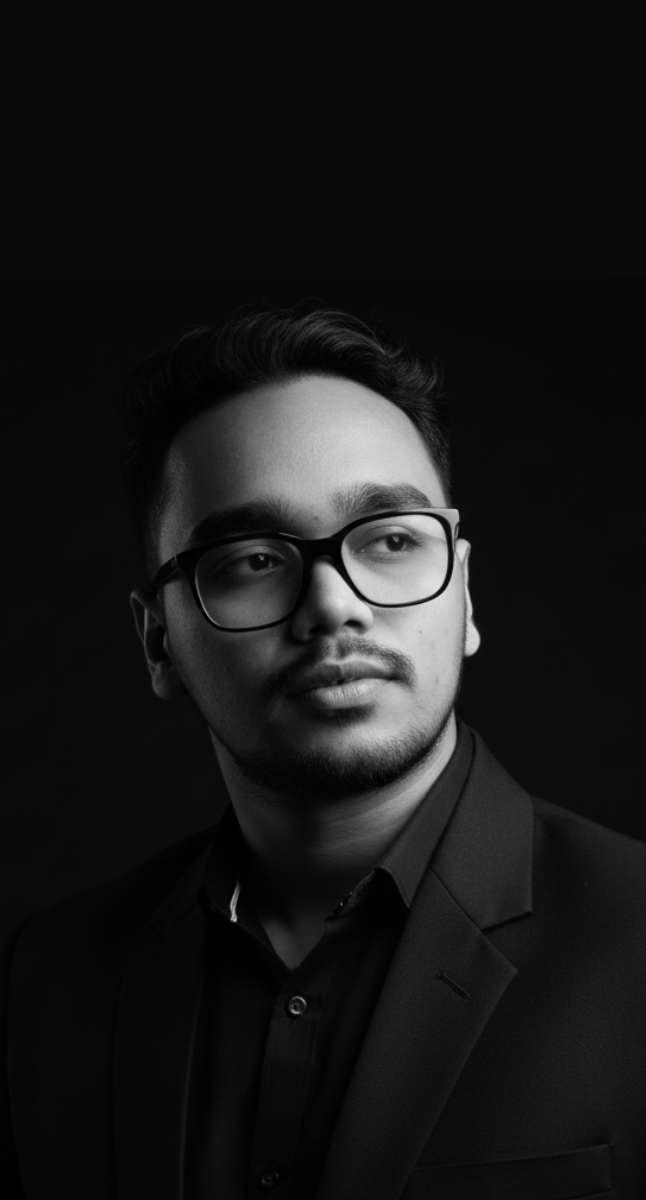
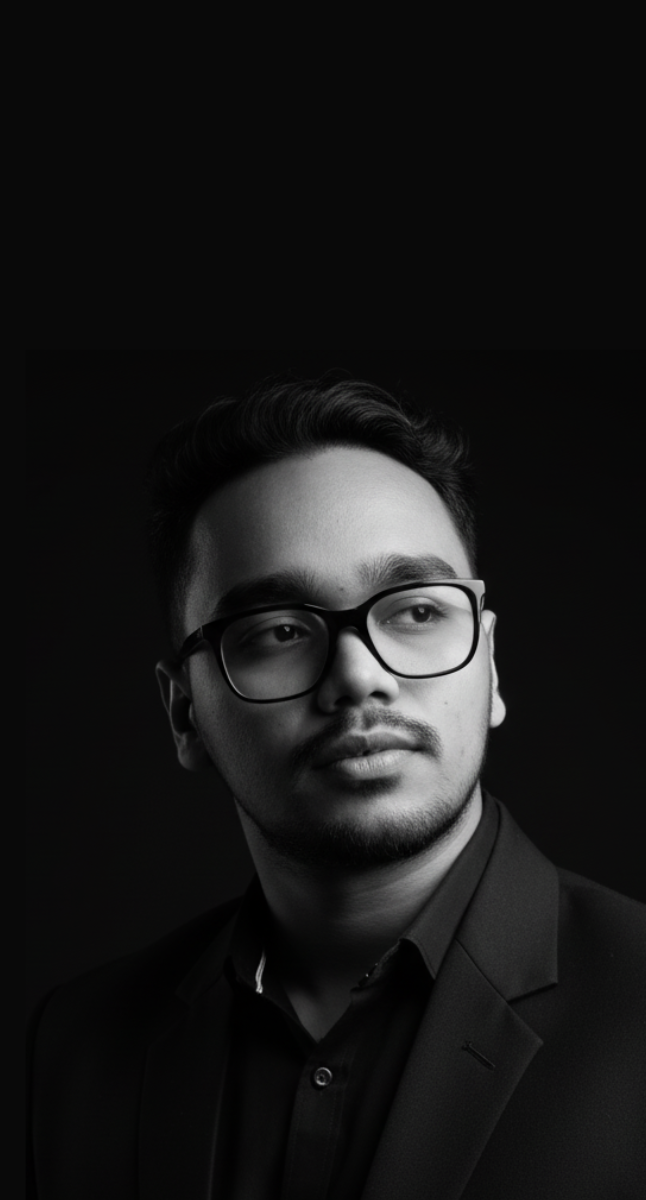
added the nav section

Changed region(s): [[0.2167, 0.2467, 0.8669, 0.8633], [0.3715, 0.7092, 0.5263, 0.8633], [0.3406, 0.74, 0.3715, 0.7708]]

diff --git a/index.html b/index.html
@@ -16,7 +16,7 @@
       href="./assets/images/favicon-32x32.png"
     />
     <link rel="stylesheet" href="style.css" />
-    <title>Infosec Consultant | Founder & CEO, Venusec | Author | cyberutso's website</title>
+    <title>cyberutso</title>
   </head>
   <body>
     <header class="header">
@@ -109,8 +109,8 @@
               />
               <img
                 class="hero__image"
-                src="assets/images/cyberutso.png"
-                alt="picture of Adam Keyes"
+                src="assets/images/cyberutso3.png"
+                alt="picture of Utso Sarkar"
                 width-="174"
                 height="383"
               />
@@ -135,8 +135,7 @@
                <div class="hover-cyber-world">Cyber world !</div>  I'm <span>Utso Sarkar</span>.
               </h1>
               <p class="hero__description">
-                Based in the UK, I'm a front-end developer passionate about
-                building accessible web apps that users love.
+                 Protecting information systems, promoting innovation and engaging with the global cybersecurity community.
               </p>
               <a href="#contact" class="hero__contact underline">Contact me</a>
             </div>
@@ -430,7 +429,7 @@
         <nav class="header__nav">
           <h2 class="visually-hidden">Navigation</h2>
           <a href="/" class="header__home">
-            adamkeyes
+            cyberutso
             <span class="visually-hidden">(to home page)</span>
           </a>
           <a href="" class="header__social">
